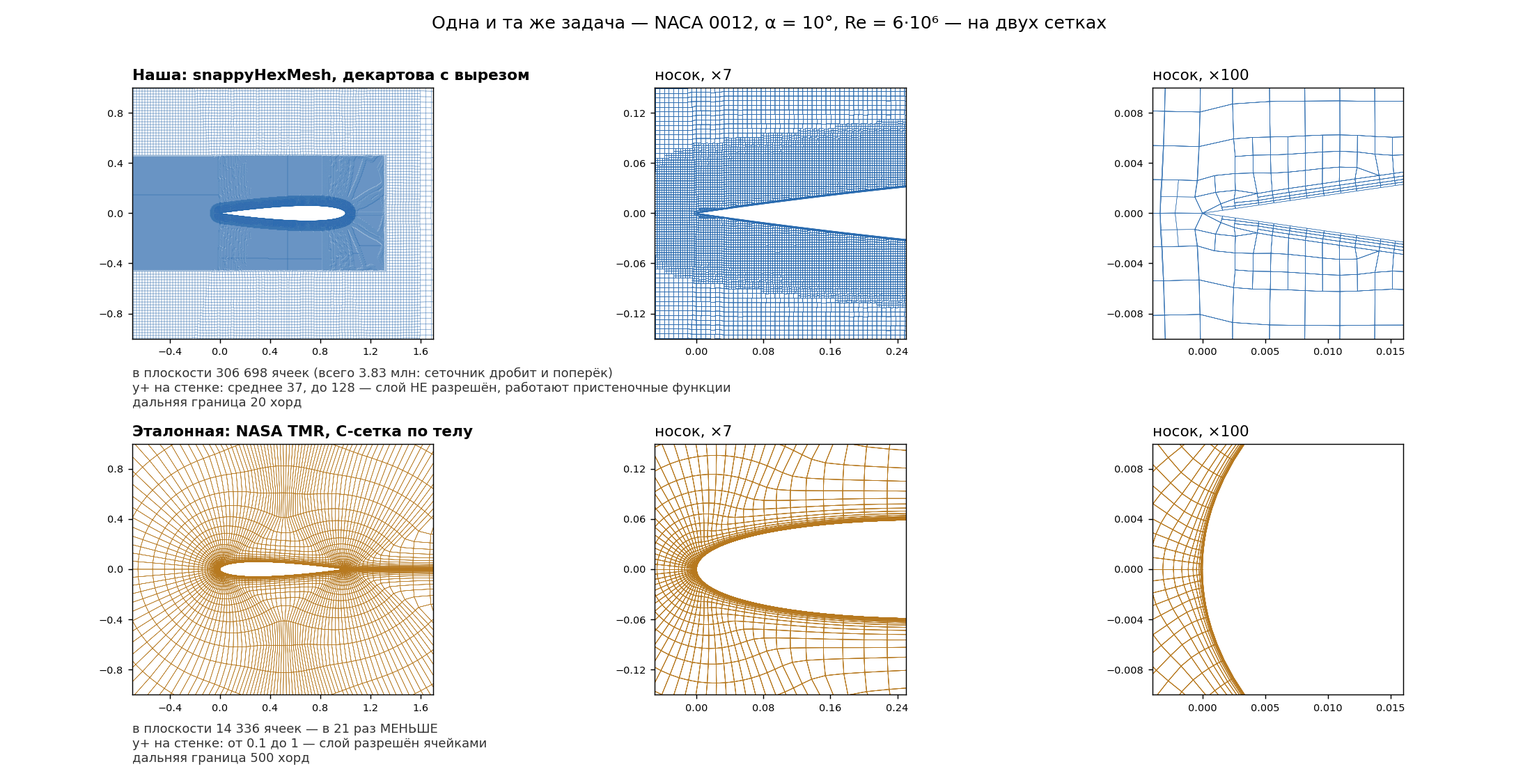
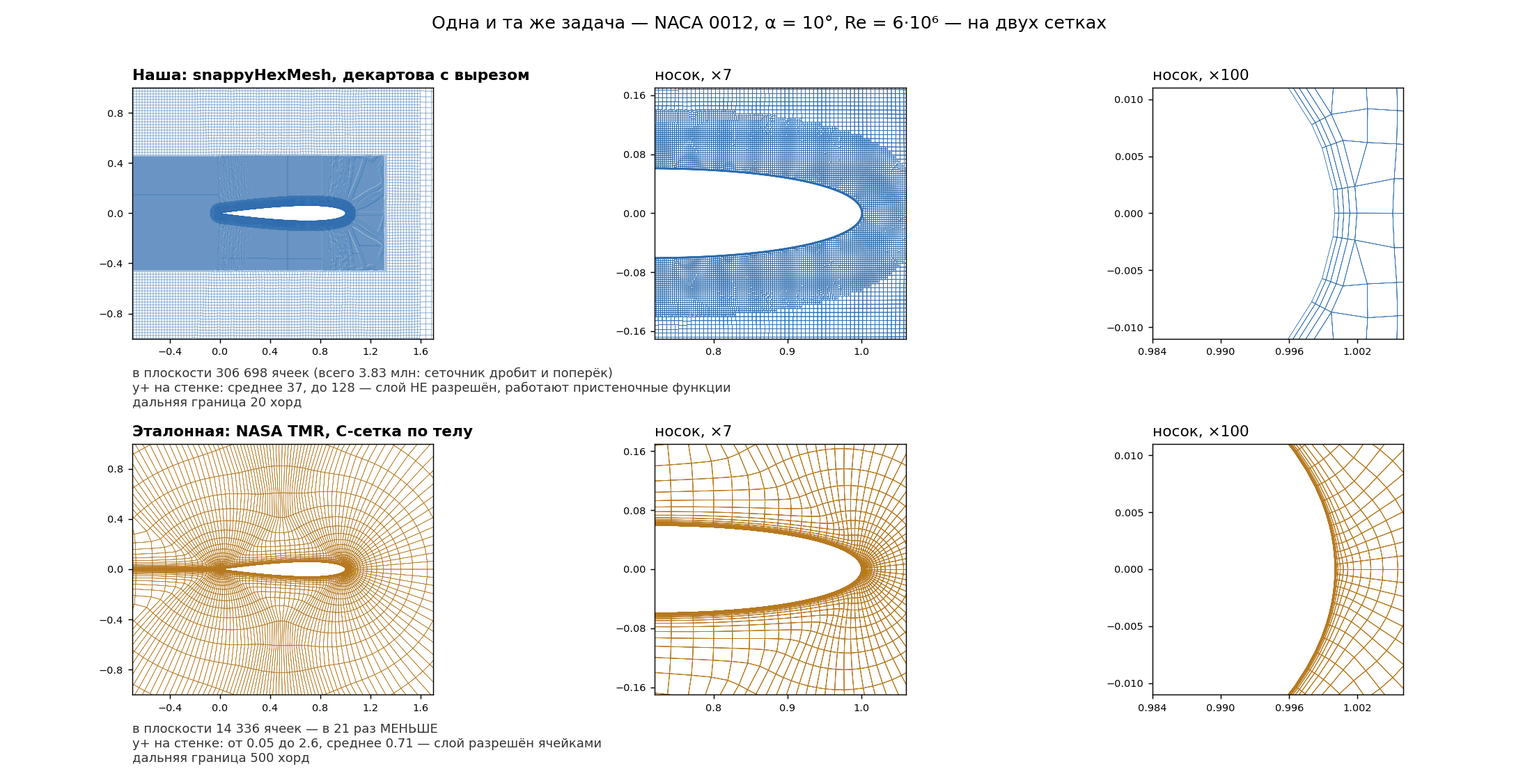
Эталонная сетка обтекалась задом наперёд — и это нашёл глаз, а не сторож
Найдено по картинке сравнения сеток: на приближении сравнивались
противоположные концы профиля. Замер подтвердил — у источника поток идёт в
+X и носок лежит в нуле, у нас поток идёт в −X и носок обязан смотреть в
+X. Поворот вокруг X ставил профиль в нужную плоскость, но не разворачивал
вдоль потока: острая кромка шла вперёд, круглый носок в корму.

Это и есть причина срыва из §13.19, а не турбулентность. Прежний диагноз
был догадкой, высказанной слишком уверенно: наблюдение про отношение
вязкостей 4000 против требуемых 1e-5…1e-2 верно само по себе, но причиной
не было.

После разворота на ТОЙ ЖЕ грубейшей сетке: Cl 1.0919 против эталонных
1.0778 (+1.3%), Cd 0.00928 против 0.01236 (−25%), y+ от 0.05 до 2.61.
Против нашей тонкой сетки: Cl −2.5%, Cd +45%.

Значит избыток сопротивления в 45% — это НАША СЕТКА, а не решатель и не
модель: 14 336 ячеек эталонной против 306 698 наших в плоскости.

Ошибка была первого порядка и не поймана ни одним числовым сторожем:
манифест проверен, сетка построена, невязка сошлась, сводка собрана.
Сорванный ответ выглядит просто «меньше ожидаемого». Отсюда правило:
ориентацию тела в потоке проверять числом (положение наибольшей толщины по
хорде), а рисование сетки считать частью проверки, а не иллюстрацией.

diff --git a/docs/sail-polar-commits-review.md b/docs/sail-polar-commits-review.md
@@ -1,0 +1,284 @@
+# Ревью перехода модели паруса на измеренную поляру
+
+## Область ревью
+
+Проверен диапазон коммитов от `40cb570eba272e5c8dd1b23acd8e2dc48e08f6c4`
+до `e0376a483e14db771a397bcf0475ce44dd07e3ab` включительно. Документ касается
+только аэродинамики паруса, таблицы поляр, совместного вязко-невязкого расчёта,
+сборки пакета физики и соответствующих тестов.
+
+Строки кода и результаты ниже относятся к состоянию репозитория на
+`e0376a4`, а не к более поздним исправлениям.
+
+## Краткий вывод
+
+Само направление работы адекватно: назначенные формулы заменяются таблицей с
+явным происхождением данных, измеренное отделено от достроенного, таблица
+распространена на полный круг углов, а исследовательский вязко-невязкий решатель
+не включён непосредственно в runtime-физику.
+
+Перед тем как считать этап полностью закрытым, необходимо исправить три
+блокирующие проблемы:
+
+1. нелинейная поправка решётки нарушает симметрию галсов;
+2. JS-батарея `sailcoeffs` фактически проверяет старые формулы вместо новой
+   таблицы;
+3. выводы coupled-теста частично построены на несошедшихся решениях.
+
+Кроме этого, таблица не учитывает число Рейнольдса, а заявленная слепая проверка
+достройки содержит утечку проверяемых данных в заранее вычисленные параметры.
+
+## Блокирующие проблемы
+
+### 1. Нелинейная поправка нарушает симметрию галсов
+
+В `sim/aero.js:821–829` на снимке `e0376a4` эталонная двумерная подъёмная сила
+считается с всегда положительным пузом:
+
+```js
+const camL = g.camPanel * camS[i];
+const aRef = g.alpha + dA[i];
+const clThin = 2 * Math.PI * Math.sin(aRef + 2 * camL);
+const ratio = Math.abs(clThin) > 0.2
+  ? sailCoeffs(aRef, camL, 1).cl / clThin : 1;
+```
+
+При этом геометрия решётки выше переворачивает среднюю линию через
+`camSign = sign(alpha)`. На противоположном галсе решётка и эталонная поляра
+поэтому работают с разной ориентацией сечения.
+
+Воспроизведение на точном `e0376a4` в зеркальных условиях дало:
+
+| Величина | Галс `+60°` | Галс `−60°` |
+|---|---:|---:|
+| Скорость | 5.494 уз | 5.572 уз |
+| Тяга | 447 Н | 464 Н |
+| Модуль крена | 12.09° | 11.58° |
+
+Почти четырёхпроцентная разница тяги в зеркальной задаче является физической
+регрессией, а не только неточностью теста.
+
+Для эталонной формулы и вызова `sailCoeffs` нужно использовать подписанное пузо,
+например:
+
+```js
+const camSigned = camL * sailSign[i < STRIPS ? 0 : 1];
+const clThin = 2 * Math.PI * Math.sin(aRef + 2 * camSigned);
+const ratio = Math.abs(clThin) > 0.2
+  ? sailCoeffs(aRef, camSigned, 1).cl / clThin : 1;
+```
+
+Потолок при этом может по-прежнему запрашиваться по модулю пуза.
+
+Нужен интеграционный тест зеркальных галсов. Он должен проверять, что:
+
+- скорость и продольная сила совпадают;
+- боковая сила, крен, дрейф и скорость рыскания меняют знак;
+- модули соответствующих величин совпадают с жёстким численным допуском.
+
+### 2. `sailcoeffs.test.mjs` не включает новую таблицу
+
+В тесте импортируется только `sailCoeffs`. Он не вызывает `setSailPolar()` и не
+создаёт `Rig`, поэтому модульная переменная `TABLE` остаётся равной `null`.
+Ветка `hasSailPolar()` не выполняется, и вся батарея продолжает проверять старый
+fallback.
+
+Это видно непосредственно из результатов точного запуска:
+
+- при пузе 8% тест получил старое `Cd = 0.040`;
+- новая таблица в этом режиме должна давать около `0.020`;
+- тест успешно закрепляет прежнее завышение `Cl` около нулевого угла, которое
+  переход на таблицу как раз должен был убрать.
+
+Python-батарея `polar.test.py` проверяет генератор таблицы, но не проверяет её
+JS-потребителя: билинейную интерполяцию, преобразование знака, поведение на краях
+и реальный путь через `sailCoeffs()`.
+
+Основной тест следует перевести на новую поляру:
+
+1. загрузить таблицу из пакета или собрать тестовый fixture;
+2. вызвать `setSailPolar(table)`;
+3. сравнить `sailCoeffs()` с узлами таблицы и промежуточными значениями;
+4. проверить зеркальность `(alpha, camber)` и `(-alpha, -camber)`;
+5. проверить углы около `−180/180°`, нулевое пузо и края диапазона пуза.
+
+Fallback для старого пакета полезен, но должен иметь отдельный короткий тест с
+явно отключённой таблицей.
+
+### 3. Coupled-тест использует несошедшиеся решения
+
+`tests/coupled.test.py` сравнивает результат с опытом, не проверяя перед этим
+`r.converged` и `r.separated`.
+
+На точном `e0376a4` получены следующие диагностические значения:
+
+| Пузо | Угол | Итерации | Residual | `converged` |
+|---:|---:|---:|---:|---|
+| 4% | 0° | 400/400 | `6.99e-5` | `true` |
+| 4% | 2° | 99/400 | `9.35e-6` | `true` |
+| 6% | 0° | 101/400 | `9.48e-6` | `true` |
+| 6% | 2° | 98/400 | `9.52e-6` | `true` |
+| 8% | 0° | 400/400 | `0.152` | `false` |
+| 8% | 2° | 400/400 | `0.214` | `false` |
+
+Несошедшиеся строки 8% затем участвуют в выводе, что необъяснённый остаток
+растёт с пузом. При residual порядка `0.2` этот вывод не подтверждён данным
+расчётом.
+
+Кроме того, `CoupledResult.converged` принимает `residual < tol * 20`, хотя цикл
+останавливается при `residual < tol`. Поэтому случай 4%, 0°, исчерпавший все 400
+итераций, всё равно помечается сошедшимся.
+
+Перед любым количественным сравнением тест должен требовать:
+
+```python
+check("решение сошлось", r.converged)
+check("решение осталось в области применимости", not r.separated)
+```
+
+Критерий `converged` должен совпадать с критерием остановки. Несошедшиеся режимы
+нельзя использовать как подтверждение опытных данных. Если прямой fixed-point
+не сходится, нужен более устойчивый continuation, adaptive relaxation либо
+inverse/quasi-simultaneous подход около отрыва.
+
+## Методические риски
+
+### 4. Слепая проверка достройки содержит утечку данных
+
+В `tests/polar.test.py` очередная измеренная кривая удаляется из словаря `REF`,
+после чего вызывается `cl_curve()`. Однако используемые ей константы `CL0`,
+`A0_DEG` и `CL_SLOPE` заранее вычислены в том числе по удалённой кривой и
+остаются неизменными.
+
+Таким образом, проверяемая кривая скрыта только частично. Это не полноценный
+leave-one-out, а ошибка на данных, часть характеристик которых уже передана
+модели.
+
+Для честной перекрёстной проверки нужно в каждом fold заново получать наклон,
+`Cl(0)` и угол нулевой подъёмной силы исключительно из оставшихся кривых. Если
+данных недостаточно, это следует прямо назвать проверкой интерполяции, а не
+слепой проверкой правила.
+
+### 5. Таблица не учитывает число Рейнольдса
+
+Рабочая область, измеренная `scripts/sail_envelope.mjs`, составляет примерно
+`Re = 1.7e5…2.3e6`. Данные Уоллиса относятся к `3e5` и `6e5`, а runtime-таблица
+имеет только оси угла атаки и пуза.
+
+Поэтому формулировка о полном совпадении диапазонов слишком сильна. Диапазон
+пуза покрыт почти полностью, число Рейнольдса — только частично. От Reynolds
+особенно зависят:
+
+- профильное сопротивление;
+- максимальная подъёмная сила;
+- угол и характер срыва;
+- поведение слабонагруженных верхних полосок.
+
+Варианты улучшения:
+
+1. добавить в таблицу ось Reynolds при появлении достаточных данных;
+2. до этого явно зафиксировать опорный Reynolds и проверить чувствительность
+   симулятора к разумным поправкам на низком и высоком краях;
+3. не описывать `1.7e5…2.3e6` как экспериментально покрытый диапазон.
+
+### 6. Верх рабочего диапазона пуза является экстраполяцией
+
+Полные кривые измерены для 4, 6 и 8%. Для 10% доступна только вершина, а строка
+12% строится линейным продолжением характеристик Уоллиса. Данные Милгрэма служат
+внешней проверкой, но непосредственно в `build_table()` не входят.
+
+Это допустимый инженерный выбор, однако 95-й процентиль модели равен 10.7%, а
+край — 11.9%. То есть заметная часть наиболее нагруженного диапазона лежит в
+экстраполяции. В документации такие клетки стоит явно маркировать отдельно от
+интерполированных и измеренных.
+
+### 7. Условие монотонности изменяет измеренные значения
+
+После построения таблицы каждая строка заменяется по правилу:
+
+```python
+cl[k] = [max(v, w) for v, w in zip(cl[k], cl[k - 1])]
+```
+
+Это меняет в том числе непосредственно измеренные узлы. Батарея показывает
+искажение до `0.115 Cl`, хотя документация говорит, что полные измеренные кривые
+кладутся в таблицу как есть.
+
+Утверждение «большее пузо не может давать меньший `Cl` при любом угле» также не
+является универсальным после срыва. Разумнее:
+
+- никогда не переписывать измеренные точки;
+- применять ограничение только к достроенным областям;
+- ограничить его диапазоном attached flow;
+- хранить маску происхождения каждой клетки: measured, interpolated,
+  extrapolated или assumed post-stall.
+
+### 8. Кэши поляры не сбрасываются вместе с таблицей
+
+`setSailPolar()` меняет `TABLE`, но не обнуляет вычисленные массивы `CEIL` и
+`STALL`. Если в одном процессе создать лодки с разными пакетами или заменить
+таблицу в тесте, потолок и угол срыва могут остаться от предыдущей таблицы.
+
+Сброс должен быть частью `setSailPolar()`, а не отдельной обязанностью вызывающей
+стороны:
+
+```js
+export function setSailPolar(table) {
+  TABLE = table && table.cl ? table : null;
+  CEIL = null;
+  STALL = null;
+}
+```
+
+Также полезна минимальная валидация монотонности осей и размеров `cl/cd` при
+установке таблицы, чтобы повреждённый пакет падал с понятной ошибкой.
+
+### 9. Проверка доставки таблицы в пакет условно пропускается
+
+В конце `tests/polar.test.py` содержимое `out/export/physics.json` проверяется
+только если файл уже существует. При его отсутствии тест успешно завершается,
+не проверив главный интеграционный контракт.
+
+На чистой временной копии `e0376a4` команда `make physics` остановилась из-за
+отсутствующего `out/params.json`, для которого нет доступного правила сборки.
+Вероятно, это более старое свойство проекта, но в рассматриваемом диапазоне оно
+означает, что доставка новой поляры в пакет не воспроизводится из чистого
+снимка.
+
+Интеграционный тест должен либо сам собирать минимальный пакет, либо считать
+отсутствие файла ошибкой, а не поводом пропустить проверку.
+
+## Что реализовано удачно
+
+- Происхождение данных записано рядом с самими числами.
+- Измеренное, достроенное и принятое для post-stall в основном разделены и
+  прокомментированы.
+- Таблица покрывает полный круг углов; поведение на фордевинде больше не зависит
+  от удержания крайнего значения при `40°`.
+- `polarCoeffs()` использует знаковый угол и в изоляции корректно зеркалит
+  одновременно угол и пузо.
+- Сопротивление после перехода полностью отдаётся модели плоской пластины, а
+  неприменимая парабола больше не побеждает при `90°`.
+- Потолок циркуляции и коэффициенты сечения происходят из одной таблицы, что
+  является правильным архитектурным направлением.
+- Исследовательский coupled solver не включён напрямую в runtime-физику.
+- Генератор runtime-таблицы не добавляет NumPy в обычный путь сборки.
+- Ограничения прямого марша пограничного слоя и недостаток физики отрыва названы
+  явно, а не спрятаны за успешным тестом.
+
+## Рекомендуемый порядок исправлений
+
+1. Исправить знак пуза в нелинейной поправке и добавить зеркальный тест галсов.
+2. Перевести `sailcoeffs.test.mjs` на реальную таблицу; fallback тестировать
+   отдельно.
+3. Запретить coupled-тесту использовать несошедшиеся и separated-решения.
+4. Сделать честную перекрёстную проверку правила достройки.
+5. Перестать изменять измеренные точки глобальным условием монотонности.
+6. Сбросить кэши внутри `setSailPolar()` и валидировать форму таблицы.
+7. Явно маркировать область экстраполяции по пузу и ограничение по Reynolds.
+8. Сделать сборку и проверку доставки `sail_polar` воспроизводимой из чистого
+   дерева.
+
+После первых трёх пунктов модель можно снова оценивать по динамическим батареям
+и обновлять эталоны. До этого зелёный набор тестов не доказывает корректность
+новой runtime-поляры.
